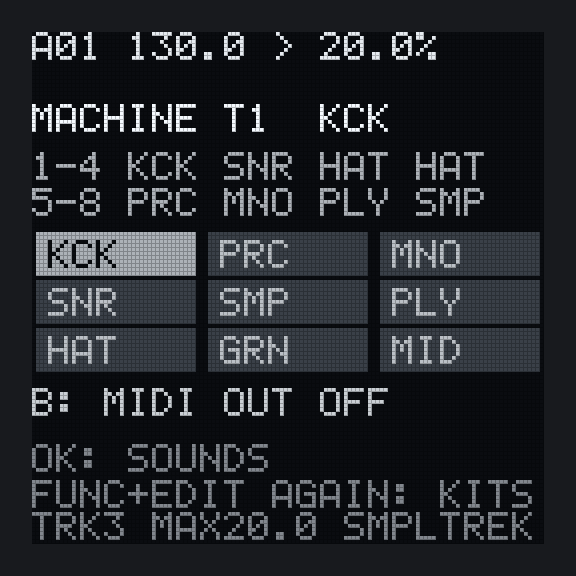
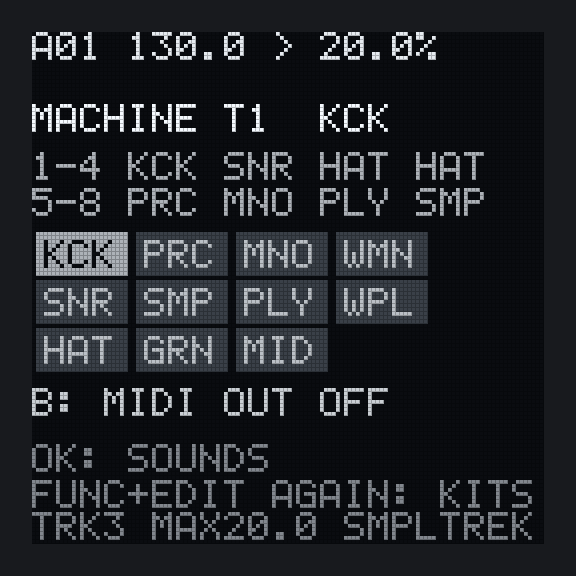
WAVE: scenario, docs, sound levels, MACHINE screenshot
- tests/scenario_wave.sh: switches the bass and chord tracks to WMN
  and WPL on keys and checks the beat stays inside the load target.
- MANUAL, CHEATSHEET, SPEC, FEATURES, HANDOFF memory row, BUDGET
  (host cost of the WAVE voice against the VA voice, boot and memory,
  E14 to measure), UNIT_CHECKLIST walkthrough item 19, E14 and U13.
- Factory sounds rebalanced against the VA sounds from renders.
- docs/screens: the MACHINE list in five columns.

Claude-Session: https://claude.ai/code/session_01Tw2EaFp6oskykyRmVaZ2K5

Changed region(s): [[0.0625, 0.375, 0.9375, 0.6562]]

diff --git a/core/sounds.cpp b/core/sounds.cpp
@@ -159,26 +159,26 @@ constexpr SoundPreset kWaveMonoPresets[] = {
     // The envelope sweeps the classic table from its sine to its square: a wavetable "wow".
     {"SWEEP", {4, 0, 70, 40}, FLAT, {60, 40, 110, 120}, NO_ASR, {0, 0, 60, 0}},
     // A resonant sweep with no filter in it: the RESO SAW table's peak moves with the envelope.
-    {"RESO", {36, 10, 100, 0}, FLAT, {50, 10, 120, 110}, NO_ASR, {0, 0, 50, 0}},
+    {"RESO", {36, 10, 100, 0}, FLAT, {60, 10, 120, 127}, NO_ASR, {0, 0, 80, 0}},
     // A growl bass: the GROWL table half way, held, the envelope pulling it into the snarl.
     {"GROWL", {100, 40, 60, 50}, FLAT, {70, 50, 100, 110}, {0, 100, 20, 0}, {0, 0, 70, 0}},
     // A talking lead: FORMANT, two readers a little apart, a touch of glide.
     {"FORMNT", {28, 64, 80, 20}, FLAT, {60, 30, 90, 110}, {0, 100, 20, 40}, {0, 30, 40, 30}},
     // Early digital: the stepping DIGITAL spectra, short and bright. Bleeps and arps.
-    {"DIGI", {84, 30, 90, 30}, FLAT, {40, 40, 100, 110}, NO_ASR, {0, 0, 0, 0}},
+    {"DIGI", {84, 30, 110, 30}, FLAT, {56, 40, 100, 127}, NO_ASR, {0, 0, 0, 0}},
     // A vowel lead: VOWELS opening from "oo" as the envelope rises, glide on every note.
     {"VOWEL", {92, 20, 90, 20}, FLAT, {80, 20, 120, 100}, {0, 110, 30, 60}, {0, 40, 0, 40}},
     // A bent bass: PHASE DIST with WRP bending the cycle as well. CZ-style.
-    {"WARP", {60, 40, 70, 50}, FLAT, {50, 60, 90, 110}, NO_ASR, {60, 0, 50, 0}},
+    {"WARP", {60, 40, 70, 50}, FLAT, {60, 60, 90, 127}, NO_ASR, {60, 0, 80, 0}},
     // An FM bass: the FM RATIO table, the sub under it.
-    {"FMBASS", {68, 50, 60, 30}, FLAT, {50, 50, 40, 115}, NO_ASR, {0, 0, 80, 0}},
+    {"FMBASS", {68, 50, 70, 30}, FLAT, {60, 50, 40, 127}, NO_ASR, {0, 0, 100, 0}},
 };
 
 // --- WAVE POLY: TBL POS CUT RES / DEC ENV MOT LVL, ASR, OSC WRP DET SUB DRV (dsp/vapoly.cpp) --
 // Held presets keep LVL down, as on VA POLY. Their DET is each voice's two readers.
 constexpr SoundPreset kWavePolyPresets[] = {
     // A pad on HARMONICS: a slow swell, two readers beating, the envelope brightening it.
-    {"PAD", {44, 30, 80, 20}, FLAT, {96, 30, 90, 60}, {85, 89, 91, 40}, {0, 60, 0, 0}},
+    {"PAD", {44, 30, 80, 20}, FLAT, {96, 30, 90, 70}, {85, 89, 91, 40}, {0, 60, 0, 0}},
     // An electric piano: E-PIANO barking as it is struck and mellowing as it holds.
     {"EPIANO", {108, 20, 100, 10}, FLAT, {90, 20, 90, 70}, {0, 70, 60, 64}, {0, 20, 0, 0}},
     // A bell: FM TINE from its sine, the tine rising on the strike and ringing away.
@@ -186,11 +186,11 @@ constexpr SoundPreset kWavePolyPresets[] = {
     // Mallets: the MALLET table at marimba, struck brighter. Chords and patterns.
     {"MALLET", {124, 30, 110, 10}, FLAT, {80, 20, 100, 70}, NO_ASR, {0, 0, 0, 0}},
     // A pluck: PLUCK from its bright end to its dull one as the envelope falls.
-    {"PLUCK", {116, 127, 100, 20}, FLAT, {60, 20, 0, 80}, NO_ASR, {0, 0, 0, 0}},
+    {"PLUCK", {116, 127, 100, 20}, FLAT, {70, 20, 0, 100}, NO_ASR, {0, 0, 0, 0}},
     // A choir: VOWELS held, two readers, a slow swell.
-    {"CHOIR", {92, 50, 80, 10}, FLAT, {100, 20, 80, 55}, {90, 100, 96, 50}, {0, 50, 0, 0}},
+    {"CHOIR", {92, 50, 80, 10}, FLAT, {100, 20, 80, 64}, {90, 100, 96, 50}, {0, 50, 0, 0}},
     // A PWM pad: the PWM table's widths, two readers, held.
-    {"PWMPAD", {12, 40, 80, 20}, FLAT, {96, 30, 100, 58}, {80, 95, 90, 50}, {0, 40, 0, 0}},
+    {"PWMPAD", {12, 40, 80, 20}, FLAT, {96, 30, 100, 66}, {80, 95, 90, 50}, {0, 40, 0, 0}},
 };
 
 #undef FLAT

diff --git a/docs/MANUAL.md b/docs/MANUAL.md
@@ -77,9 +77,9 @@ also walk the tracks in GRID, EDIT and KEYS.
 <sub>EDIT on the kick: the machine's SRC page and the insert chain's FLTR page. The bars above the knobs are the six pages; the screen keys turn them.</sub>
 
 
-A machine is one of eight sound engines, plus **MID**, which plays an outboard synth over MIDI
+A machine is one of ten sound engines, plus **MID**, which plays an outboard synth over MIDI
 instead (section 3). Any track can host any machine (MACHINE mode, `FUNC+EDIT`). The default kit
-uses the eight sound engines, one per track:
+uses eight of them, one per track (WAVE MONO and WAVE POLY are there to switch to):
 
 | Track | Machine | Default role |
 | :---: | --- | --- |
@@ -175,7 +175,7 @@ held. With it, POLY plays pads and long chords, and MONO plays long bass notes a
   dull.
 
 The line under the knobs says `SUS 0: ONE-SHOT` or `HOLDS: PAD OR LEN`. On any other machine the
-page shows `VA MONO/POLY ONLY`.
+page shows `VA/WMN/WPL ONLY`.
 
 A scene captured with SCENE stores the ASR page too, like every other knob. So if a note still
 fades with SUS up, look at the morph: a scene stored at SUS 0 pulls SUS down as VALUE moves
@@ -223,7 +223,7 @@ filter:
   squelch.
 
 The line under the knobs says `OS2: DET 1-63 SYN 64+`. On any other machine the page shows
-`VA MONO/POLY ONLY`. Like every page, the four lock, scene and macro.
+`VA/WMN/WPL ONLY`. Like every page, the four lock, scene and macro.
 
 **RES** on SRC runs over the whole knob: each turn adds about the same amount of peak, and from
 about 120 the filter whistles by itself at a steady level (self-oscillation; tune it with CUT).
@@ -623,6 +623,46 @@ Every note is a sustaining voice and costs CPU while it rings. All VA POLY track
 a budget of **12 voices**; past it, the quietest note is faded out quickly to make room. A longer
 DEC, a long LEN with SUS up, or a long REL all mean more notes overlap.
 
+### WMN and WPL: WAVE MONO and WAVE POLY
+
+The VA voice with a **wavetable** where its two oscillators were: 16 tables of 16 frames each,
+built into STRATA (no files needed), from PolyWerk's recipes. POS moves smoothly through a
+table's frames; MOT lets the filter envelope move it, so a note's timbre changes as it plays.
+Everything else is the VA's: the sub, the 24 dB filter with its envelope, the ASR page, accent,
+slide and glide on WMN, chords and the shared 12-voice budget on WPL.
+
+| Page | A | B | C | D |
+| --- | --- | --- | --- | --- |
+| SRC | **TBL** the table, eight counts each (shown by name) | **POS** position, frame 0-15 | **CUT** cutoff, LP24 | **RES** resonance |
+| AMP | **DEC** as MNO | **ENV** filter envelope amount | **MOT** envelope to position: 64 off, up to +15 or -15 frames | **LVL** |
+| ASR | **ATK** | **SUS** | **REL** | **FSU** as MNO |
+| OSC | **WRP** bends the cycle (0 = none) | **DET** a second, detuned copy: OFF, up to 60 cents | **SUB** sub level | WMN: **GLD** glide; WPL: **DRV** drive |
+
+The tables, from TBL 0 up:
+
+| TBL | Table | From frame 0 to 15 |
+| --- | --- | --- |
+| CLS | CLASSIC | sine, triangle, saw, square |
+| PWM | PWM | a square narrowing to a thin pulse |
+| SYN | SYNC | a hard-synced saw, the sync ratio rising |
+| FMT | FORMANT | a vocal formant sweeping up |
+| RSW | RESO SAW | a saw with a resonant peak sweeping up: a filter sweep with no filter |
+| HRM | HARMONICS | organ-like, more harmonics drawn in |
+| FLD | FOLD | a sine wavefolded harder and harder |
+| PHD | PHASE DIST | CZ-style phase distortion, soft to sharp |
+| FM1 | FM RATIO | two-operator FM, the index rising |
+| TIN | FM TINE | an electric piano's tine: a sine gaining its metallic partials |
+| DGT | DIGITAL | eight stepped digital spectra |
+| VOW | VOWELS | "oo" to "ah" to "ee" |
+| GRL | GROWL | a bass growl, darker to snarling |
+| EPN | E-PIANO | mellow to barking |
+| PLK | PLUCK | a plucked string, bright to dull (and quieter as it dulls) |
+| MLT | MALLET | soft mallet, marimba, vibraphone, xylophone, glockenspiel, kalimba |
+
+MOT above 64 moves the position up as the filter envelope rises and back as it falls; below 64 it
+moves it down. With PLK at POS 127 and MOT 0, each note starts bright and dulls like a string.
+The SOUNDS list (OK on MACHINE) has 8 WMN and 7 WPL starting points.
+
 ### MID: MIDI
 
 MID makes no sound of its own. It is for a track whose sound is an outboard synth, a drum
@@ -691,8 +731,8 @@ OUT channel: OFF, or 1-16. `FUNC+EDIT` again opens the kit library (section 6).
 
 <p><img src="screens/sounds.png" width="256" alt="SOUNDS on track 1, the kick"></p>
 
-Every drum machine and both VAs come with a short list of ready-made sounds. On a KCK, SNR, HAT,
-PRC, MNO or PLY track, press **OK** in EDIT or MACHINE: **SOUNDS** lists them. UP/DOWN or A move
+Every drum machine, both VAs and both WAVE machines come with a short list of ready-made sounds.
+On a KCK, SNR, HAT, PRC, MNO, PLY, WMN or WPL track, press **OK** in EDIT or MACHINE: **SOUNDS** lists them. UP/DOWN or A move
 the cursor, **OK loads** the one under it into this track, with the beat playing, and the list
 stays open so the next OK tries the next one. `NOW` marks the sound the track has. The first row,
 **AS WAS**, is the track as it sounded when you opened the list: OK on it puts that back, so

diff --git a/docs/UNIT_CHECKLIST.md b/docs/UNIT_CHECKLIST.md
@@ -1,7 +1,7 @@
 # Unit checklist
 
-The first part is **today's walkthrough** (2026-11-23): about 30 minutes, numbered 1-18, over
-everything merged since v0.1.0 (18 is the VA sound rework). Report back by number, for example `3 fail: reads 055`. After it
+The first part is **today's walkthrough** (2026-11-23): about 30 minutes, numbered 1-19, over
+everything merged since v0.1.0 (18 is the VA sound rework, 19 the WAVE machines). Report back by number, for example `3 fail: reads 055`. After it
 come the controls tour from 2026-11-22 (skip what the v0.1.0 card already showed), last night's
 long walkthrough, and "Reference", the full per-milestone list with the background for each check.
 
@@ -178,6 +178,19 @@ with at least one WAV in `SmplTrek/Pool/Audio` (copy one there on a PC if it is 
 - STOP, PLAY (MAX restarts), 30 s with OS2 at `S+12` and DRV half on track 6: **MAX `____ %`**
   (against item 1's). Then FUNC+HOME, RELOAD PROJECT (OK twice) puts the beat back.
 
+**19. WAVE MONO and WAVE POLY: the wavetable machines (4 min).** Beat playing, A01.
+- Startup took about as long as before? (The 16 wavetables are built at boot.) `____`
+- Lower pad 6, FUNC+EDIT (MACHINE): five columns, `WMN` and `WPL` in the fourth column; the
+  names fit their boxes. DOWN three times from MNO: `WMN`. The bass keeps playing, now a
+  wavetable.
+- OK (SOUNDS): SWEEP (the timbre opens on each note), GROWL, VOWEL (glides, "talks"), WARP. Each
+  usable without touching a knob, at a sensible level against the kick? `____`
+- EDIT, SRC: A reads a table name (`FM1`, `CLS`, ... `MLT`); turn A through all 16, B (POS) sweeps
+  each one smoothly, no clicks or zipper. AMP C (MOT) reads `OFF` at 64, `+15` and `-15` at the ends.
+- Track 7, MACHINE, DOWN three times: `WPL`. OK: PAD, EPIANO, BELL, CHOIR. AS WAS.
+- 30 s with WPL on track 7 playing PAD and WMN on track 6 playing GROWL: **MAX `____ %`**
+  (against item 1's). Then FUNC+HOME, RELOAD PROJECT puts the beat back.
+
 **Done.** Reply with the numbers: `all pass`, or for example `3 fail: reads 055`, `9: MAX 61.2`.
 
 ---
@@ -284,6 +297,10 @@ needed for tonight's unit session; do them if the PC is free.
       Then the worst case: the temporary `factory_kit` edit in `docs/BUDGET.md` ("The OSC page",
       E13), `scenario_factory.sh` both compilers, and revert the edit.
       Shipped: cl6x `________ %` GCC `________ %`. Worst: cl6x `________ %` GCC `________ %`
+- [ ] **E14.** WAVE: `tests/scenario_wave.sh` (tracks 6 and 7 switched to WMN and WPL on keys)
+      against `scenario_factory.sh` on the same commit, both compilers; and the cycles to
+      `strata ready` before and after the WAVE commit (`docs/BUDGET.md`, "WAVE MONO and WAVE POLY").
+      WAVE: cl6x `________ %` GCC `________ %`. Boot added: `________`
 - [ ] **E5.** Load `STRATA_1.WAV` (15 s, 96 kHz) through the emulator's card, cl6x vs GCC.
       `________ s` / `________ s`
 - [ ] Optional pre-listen: `make -C host render` writes the four factory patterns and A01's
@@ -794,7 +811,7 @@ so this is the first time it is heard. Play A01 GROOVE.
 
 - [ ] Track 7 (PLY), EDIT, screen key RIGHT six times: a seventh page box, `ASR`, with ATK SUS REL
       FSU on A-D reading `3MS 0% 60MS 0%`, and `SUS 0: ONE-SHOT` below. The seven boxes fit. On
-      track 1 the same page reads `---` and `VA MONO/POLY ONLY`.
+      track 1 the same page reads `---` and `VA/WMN/WPL ONLY`.
 - [ ] **Old sound kept.** With all four at 0 the chord stab sounds exactly as before (compare with
       A01 on the v0.1.0 card if in doubt).
 - [ ] **A pad.** SUS to about 70%, ATK to about `400MS`, REL to about `2.0S`, FSU up a little. Hold
@@ -925,7 +942,7 @@ SUB 102, DRV 0: their VAs lose the old always-on synced pulse, so they sound a l
 emulator only walks to the page (`tests/scenario_osc.sh`). Play A01 GROOVE.
 
 - [ ] Track 6 (MNO), EDIT, screen key RIGHT seven times: `OSC`, A-D reading `SAW OFF 090 024`, the
-      line `OS2: DET 1-63 SYN 64+`. On track 1 the page reads `---` and `VA MONO/POLY ONLY`.
+      line `OS2: DET 1-63 SYN 64+`. On track 1 the page reads `---` and `VA/WMN/WPL ONLY`.
 - [ ] **RES over its whole range.** SRC page, MOD in LP24 (0-63), D (RES) from 0 to 127 in steps
       of about 16: each step adds a bit more peak, none does nothing. From about 120 the filter
       whistles by itself at a steady level, no crackle, no growing. Same in LP12 (MOD 64-95).
@@ -1146,6 +1163,8 @@ Enaga's menu and start STRATA6.
 | U11 A01 MAX with BUILD at 127 and a playing loop; and with BASS KILL (13o) | |
 | E13 OSC page, `scenario_osc.sh` vs `scenario_factory.sh` before it; worst-case edit, cl6x / GCC (PC) | |
 | U12 MAX with a MIN11 chord on OS2 sync, DRV and SUB up, over A01 (13p) | |
+| E14 WAVE, `scenario_wave.sh` vs `scenario_factory.sh`; boot cycles before/after, cl6x / GCC (PC) | |
+| U13 MAX with WMN GROWL and WPL PAD, over A01 (walkthrough 19) | |
 | MAX straight after a kit recall (15) | |
 | STRATA6 MAX, 60 s (16) | |
 | U2 STRATA6 + tracks 5 and 6 as MIN11 POLY, capped at 12 voices (16) | |

diff --git a/docs/SPEC.md b/docs/SPEC.md
@@ -97,6 +97,8 @@ Eight tracks, each one machine plus a fixed insert chain, feed a mixer with two 
 | GRAIN | 1 (up to 8 grains) | Granular playback, tempo-locked stretch: position, size, density, spray, pitch |
 | VA MONO | 1 | 2 oscillators with sync, sub, noise, multimode filter, 2 envelopes, accent, slide, glide. **[rev]** OSC 2 detunes or syncs (OSC page); drive |
 | VA POLY | 6 | Same voice as VA MONO; chord mode, spread, unison 2 |
+| WAVE MONO **[rev]** | 1 | The VA MONO voice with a wavetable oscillator in place of the two oscillators: 16 built-in tables of 16 frames (from PolyWerk's recipes), position, envelope to position, phase warp, a detuned second reader; LP24 filter, sub, envelopes, accent, slide, glide as VA MONO. Machine id 9, `WMN`. dsp/wavetable.hpp |
+| WAVE POLY **[rev]** | 6 | The same, polyphonic like VA POLY, with chords; shares VA POLY's 12-voice budget. Machine id 10, `WPL` |
 | MID **[rev]** | 0 | No audio. The track's notes go to MIDI OUT, and SRC and AMP's eight slots are sent as CCs (74, 71, 73, 72; 70, 75, 76, 77) when they move. See "MIDI in and out" |
 
 **Per-track insert chain (fixed order)**
@@ -120,6 +122,7 @@ Machine, then drive (asymmetric soft clip), multimode filter (LP, HP, BP, 12 or 
 - **[rev]** Each track has an **arpeggiator**, a sixth EDIT page, ARP, after LFO: four more bytes per track (20-23), stored, locked and scened like the rest. A = MOD (OFF UP DN U/D ORD RND), B = RAT (1/4 1/8 1/8T 1/16 1/16T 1/32 1/32T), C = OCT (1-4 octaves), D = GAT (each hit's length, 50-99% of the spacing). With MOD on, a sequenced step's note -- a POLY step's whole chord -- plays as a run of single notes at RAT for the step's length, and the track's next step takes over. In KEYS, the held keys are arpeggiated while any is down, on the clock's grid with the transport running and free at the tempo when stopped; a pad hit plays once. RND plays the same notes every pass. All-zero bytes are OFF, so older kits play as they did. core/arp.hpp has the note logic; the engine schedules the hits on the clock's ticks, at control rate.
 - **[rev]** VA MONO and VA POLY have a note envelope page, **ASR**, a seventh EDIT page after ARP: four more bytes per track (24-27), stored, locked, scened and macro'd like the rest. A = ATK (2.5 ms-5 s), B = SUS (0-100% of the peak), C = REL (60 ms-8 s), D = FSU (filter envelope sustain). SUS 0 is a one-shot whose length is DEC, as before; SUS up holds a note while a KEYS pad, STEP key or MIDI note is held, or for the step's LEN on the sequencer. VA POLY has always ended a note at LEN; VA MONO does only once SUS is up, so existing bass lines keep their decays. All-zero bytes are exactly the old envelope (bit-identical), so older kits sound as they did. Other machines show `---` there. REC records how long a held note was held into its step's LEN (core/record.hpp, `held_length_index`), on the machines that hold a note. dsp/va.cpp has the curves.
 - **[rev]** VA MONO and VA POLY have an oscillator page, **OSC**, an eighth EDIT page after ASR: four more bytes per track (28-31), stored, locked, scened and macro'd like the rest. A = WAV (0-31 saw, 32 a square narrowing to an 8% pulse at 127), B = OS2 (0 off; 1-63 a second saw detuned up to 0.6 semitones, split around the note; 64-127 a pulse hard-synced to OSC 1, +0 to +24 semitones), C = SUB (triangle sub level, 0 skips it), D = DRV (soft clip before the filter plus more post-filter drive, level-trimmed). This is the spec's "2 oscillators with sync" made a choice instead of a fixed +19-semitone synced pulse. RES runs on an exponential curve to self-oscillation near 127, bounded by a control-rate limiter. Older kits load `SAW OFF 102 000`, without the old synced pulse: they change sound a little, accepted for the wider range (2026-11-23). Other machines show `---` there. dsp/va.cpp has the curves.
+- **[rev]** WAVE MONO and WAVE POLY (2026-11-23, Roland: "lets build it") read the same 32 bytes with their own meanings on the machine's slots: SRC = TBL (table, eight counts each), POS (frame 0-15), CUT, RES (the filter fixed at LP24); AMP = DEC, ENV, MOT (filter envelope to position, 64 = none, ±15 frames), LVL; ASR as the VAs; OSC = WRP (phase bend), DET (0 off, a second reader up to 60 cents), SUB, and GLD on WAVE MONO or DRV on WAVE POLY. The 16 tables (2.5 MiB of int16 frames in 10 mip levels, aliasing kept above 18 kHz) are computed at init, not loaded, so they need no file.
 - Voices come from fixed pools allocated in `init()`; nothing is allocated while playing.
 
 ## Sequencer

diff --git a/docs/CHEATSHEET.md b/docs/CHEATSHEET.md
@@ -238,8 +238,8 @@ CC 120/123 let go of held notes. Program change 1-128 on your MIDI CH queues pat
 | PATTERN | `>LEN 16 STEPS`, `SWG 54%`, `3 PAT`, `>5 66%` | Master length; swing; a track following SWG or with its own (`>` = field VALUE changes) |
 | EDIT LFO | `NOW CUT 87`, `LFO OFF: SET DEP+DST` | The destination's value right now; DEP or DST is zero |
 | EDIT ARP | `UP 1/16 X2 75%`, `ARP OFF: TURN MOD` | Mode, rate, octaves, gate; the arp is off |
-| EDIT ASR | `HOLDS: PAD OR LEN`, `SUS 0: ONE-SHOT`, `VA MONO/POLY ONLY` | Notes hold (SUS up); notes are one-shots; not a VA track |
-| EDIT OSC | `OS2: DET 1-63 SYN 64+`, `VA MONO/POLY ONLY` | What OS2's two halves do; not a VA track |
+| EDIT ASR | `HOLDS: PAD OR LEN`, `SUS 0: ONE-SHOT`, `VA/WMN/WPL ONLY` | Notes hold (SUS up); notes are one-shots; not a VA track |
+| EDIT OSC | `OS2: DET 1-63 SYN 64+`, `WRP BENDS  DET 2 OSCS`, `VA/WMN/WPL ONLY` | What OS2's two halves do; the WAVE pair's WRP and DET; not a VA or WAVE track |
 | PROJECT slots | `05>`, bright box | Queued slot; live slot (bright), has trigs (mid), empty (dark) |
 | PROJECT | `SMP OS.X- 12/32M` | Per track sample: O ready, S streamed from the card, . loading, X failed, - none; MiB used/budget |
 | Any | `STREAM LATE` | The card fell behind a streamed file; the gap played as silence |
@@ -256,12 +256,14 @@ CC 120/123 let go of held notes. Program change 1-128 on your MIDI CH queues pat
 ## Abbreviations
 
 **Machines:** KCK kick · SNR snare · HAT hat · PRC 2-op FM percussion · SMP sampler · GRN granular ·
-MNO VA mono · PLY VA poly.
+MNO VA mono · PLY VA poly · WMN wavetable mono · WPL wavetable poly.
 
 **EDIT pages:** SRC source · FLTR filter (insert chain) · AMP amplitude · FX effects (insert chain) · LFO the track's LFO · ARP its arpeggiator · ASR the VAs' held notes · OSC the VAs' oscillators and drive.
 **LFO page:** WAV shape SIN TRI RMP (rising) SAW (falling) SQR S+H · RAT rate, `0.06`-`32` Hz free on the lower half, `8B` (bars) to `1/32` synced on the upper (`.` dotted, `T` triplet) · DEP depth, 127 = about 64 either side · DST the parameter it moves, or OFF. Lockable, scene- and macro-able like any parameter.
 **ASR page (VA MONO, VA POLY):** ATK attack `3MS`-`5.0S` · SUS sustain `0%` (one-shot, DEC is the length, as before) to `100%` · REL release `60MS`-`8.0S` · FSU filter sustain (0 = the sweep closes, up = stays open). SUS up: a note holds while the pad or key is held, or for the step's LEN (MONO counts LEN only then). Pad: SUS 70%, ATK 400MS, REL 2.0S, chord step LEN 16 STP. REC records how long a held note was held as its step's LEN.
 **OSC page (VA MONO, VA POLY):** WAV `SAW` (0-31), `SQR` (32) to `P08` (127, a thin pulse) · OS2 `OFF` (0), `D0`-`D60` a detuned second saw in cents (1-63: chorus to Reese), `S+0`-`S+24` a pulse synced to OSC 1 (64-127: the sync sweep) · SUB the sub an octave down (0 = off) · DRV drive into the filter, thicker and dirtier, not louder. An older project loads `SAW OFF 102 000`. RES now self-oscillates near the top.
+
+**OSC page (WAVE MONO, WAVE POLY):** WRP phase bend, 0 none · DET `OFF` or `D1`-`D60`, a second detuned reader in cents · SUB · WMN: GLD glide; WPL: DRV drive. The ASR page is the VAs'.
 
 **ARP page:** MOD OFF UP DN U/D ORD RND · RAT `1/4` to `1/32T` · OCT `X1`-`X4` · GAT note length, `50%`-`99%` of the spacing. On, a step plays a run for its length (PLY: through its chord); in KEYS, held keys are arpeggiated. Lockable and scene-able.
 
@@ -275,6 +277,8 @@ MNO VA mono · PLY VA poly.
 | GRN | POS position, SIZ grain size, DEN density, SPR spray | PIT pitch, SHP grain shape, DEC, LVL |
 | MNO | TUN, MOD filter mode, CUT cutoff, RES resonance | DEC, ENV filter env amount, GLD glide, LVL (ASR page: ATK SUS REL FSU) |
 | PLY | TUN, MOD, CUT, RES | DEC, ENV, DET detune, LVL (ASR page: ATK SUS REL FSU) |
+| WMN | TBL table (CLS PWM SYN FMT RSW HRM FLD PHD FM1 TIN DGT VOW GRL EPN PLK MLT), POS position, CUT (LP24), RES | DEC, ENV, MOT envelope to position (`OFF` at 64, `+15`/`-15`), LVL (ASR and OSC pages) |
+| WPL | TBL, POS, CUT, RES | DEC, ENV, MOT, LVL (ASR and OSC pages; chords, shares the 12 POLY voices) |
 
 **Insert chain (every track):** FLTR = DRV drive, CUT cutoff, RES resonance, MOD filter mode
 (OFF LP12 LP24 BP12 BP24 HP12 HP24). FX = LOF lo-fi, PAN pan, SNA send A (delay), SNB send B (reverb).

diff --git a/docs/BUDGET.md b/docs/BUDGET.md
@@ -1193,6 +1193,7 @@ scene or knob really did move: those prepare as before.
 | E7 | Eight LFOs running | `tests/scenario_lfo.sh` as it is (every LFO off: should match `scenario_factory.sh`), then again after a temporary edit to `factory_kit` in core/factory.cpp setting each track's `params[17] = 40` (RAT, about 3 Hz free), `params[18] = 127` (DEP) and `params[19] = 38` (DST = DRV), with cl6x and with `ENAGA_TI_CGT=none`; revert the edit | the difference is eight LFOs' cost; the host figures say about 1.1-1.4 points GCC, and about the same with cl6x |
 | E12 | The ASR page | `tests/scenario_asr.sh`, then the held-chord `factory_kit` edit in "The ASR page" above, `scenario_factory.sh`, both compilers; revert | **done 2026-11-23:** off = A01 (26.15% / 49.32%); held +3.60 cl6x / +4.71 GCC (see "The ASR page") |
 | E13 | The OSC page and the VA rework | `tests/scenario_osc.sh` against `scenario_factory.sh` before it, then the worst-case `factory_kit` edit in "The OSC page" below, both compilers; revert | the factory beat should not rise; worst case at most ~0.1 point a voice over the old voice |
+| E14 | WAVE MONO and WAVE POLY | `tests/scenario_wave.sh` (tracks 6 and 7 switched to WMN and WPL on keys) against `scenario_factory.sh` on the same commit, both compilers; and the boot: the cycles to `strata ready` against the same run before the WAVE commit | see "WAVE MONO and WAVE POLY" below: about 1.0-1.4x a VA voice expected; the table build is a one-off at boot |
 | E5 | Load time of a 15 s 96 kHz stereo WAV (30 s of the file now loads too: `kSrcFrames` is 30 s of 96 kHz frames since 2026-11-22) | through the emulator's card, cl6x vs GCC | wall time to playable; screen should not stall |
 
 #### To measure on the unit (with the MAX readout from PR #17)
@@ -1602,6 +1603,47 @@ and revert.
 | `scenario_factory.sh`, before the OSC page | 26.15% | 49.32% |
 | `scenario_osc.sh` (A01 as shipped, new voice) | | |
 | `scenario_factory.sh`, tracks 6 and 7 at the worst case | | |
+
+### WAVE MONO and WAVE POLY (2026-11-23, host only)
+
+The wavetable voice is the VA voice with its oscillators swapped for one or two readers of two
+neighbouring int16 frames (dsp/waveloops.ti.c: two linear interpolations and a crossfade a sample,
+branch-free, ready for cl6x). The filter, the envelopes, the sub and the tail are the VA's.
+
+Host, x86 GCC -O2, a six-note held chord on one POLY machine, nanoseconds per voice per 64-frame
+block, best of two runs (noisy; the ratios are what to read):
+
+| Voice | ns / voice / block | vs VA saw |
+| --- | --- | --- |
+| VA, saw, OS2 off | 857 | 1.00 |
+| VA, saw, OS2 detune | 901 | 1.05 |
+| VA, saw, OS2 sync | 1,169 | 1.36 |
+| WAVE, one reader | 1,121 | 1.31 |
+| WAVE, DET (two readers) | 1,291 | 1.51 |
+| WAVE, DET and WRP | 1,591 | 1.86 |
+
+So a WAVE voice costs about what a synced VA voice does, and the worst knob setting (DET and WRP
+together) about 1.4x that. Scaled from VA POLY's 2.16 points a voice with cl6x (3.82 GCC-only),
+expect roughly **2.2-3.0 points a voice with cl6x and 4-5 GCC-only**, unmeasured. WAVE POLY shares
+VA POLY's budget of 12 voices and the CPU guard sheds its voices the same way, so the worst case is
+twelve voices at the upper figure, about 9 points above twelve VA voices. If the emulator says
+more, the lever is WRP's loop (`strata_wave_add_warp`, a float index and a compare per sample).
+
+**Boot:** the 16 tables are computed in `Engine::init` (a float FFT, 256 frames, 10 mip levels):
+25.8 ms on the host. The C6748 has no x86 FPU throughput; expect 0.5-1.5 s added to the boot,
+to be measured as E14.
+
+**Memory:** 2,626,560 bytes of tables plus 0.2 MiB of build scratch: init now asks for 111.77 MiB
+of the 120 MiB heap, 8.23 MiB spare against the 8 MiB rule (tests/test_memory.cpp itemises it).
+FM and STRING, which follow, allocate under 0.1 MiB.
+
+**E14, to measure on Roland's PC (emulator):**
+
+| Build | cl6x | GCC only |
+| --- | --- | --- |
+| `scenario_factory.sh`, same commit | | |
+| `scenario_wave.sh` (WMN bass, WPL chord) | | |
+| cycles to `strata ready`, before / after | | |
 
 ### Later milestones
 

diff --git a/docs/FEATURES.md b/docs/FEATURES.md
@@ -70,6 +70,7 @@ pages (SRC, FLTR, AMP, FX), plus LFO, ARP and (VAs) ASR pages.
 | VA POLY: up to 6 notes, 13 chord types with inversions, DET | v0.1.0 | ✔ default beat chord | At SUS 0 LEN only shortens a note; see the ASR row. No stereo spread or unison 2 (in SPEC) |
 | **Held notes on the VAs: ASR page** (ATK SUS REL FSU, seventh EDIT page); with SUS up a note holds while the key is held or for its step's LEN (up to 64 steps) | #90 | ○ (13k) | Held voices count against the 12-voice POLY budget for as long as they hold; MONO counts LEN only once SUS is up |
 | **VA sound rework: OSC page** (WAV OS2 SUB DRV, eighth EDIT page): saw or pulse width, a detuned or hard-synced OSC 2, sub level, drive into the filter; RES self-oscillates near the top, LP24 squelches like LP12 | #118 | ○ (13p, walkthrough 18) | Older projects lose the old fixed synced pulse (load `SAW OFF 102 000`). No key tracking or velocity to the filter; the filter decay is still 0.55 x DEC |
+| **WAVE MONO and WAVE POLY**: the VA voice with a wavetable (16 built-in tables of 16 frames: TBL POS, MOT envelope to position, WRP phase bend, DET second reader), 8 + 7 factory sounds | #119 | ○ (walkthrough item, 13q) | CPU per voice is a host estimate until the emulator and the unit measure it (BUDGET "WAVE"); the tables take 2.5 MiB at init, leaving about 8.2 MiB spare. No user tables from the card |
 | MID: plays an outboard synth over MIDI; SRC/AMP knobs send CC 74/71/73/72, 70/75/76/77 | v0.1.0 | ○ (8d) | No sound or CPU of its own; no scale fold |
 | Key and scale per pattern (15 scales), fold for VAs, GRAIN and unsliced SAMPLE; sharps everywhere | v0.1.0 | ○ (7) | |
 | **NOTE view**: TUN / PIT read as a note (where TUN puts C-4) and turn a semitone a click; push the knob for 0-127 | #88 | ○ ("Today's walkthrough") | Chromatic, not by scale (TUN applies after the fold). 128 bytes per range, so many notes are a few cents off (`+`/`-`). Not saved: on at every start |

diff --git a/docs/HANDOFF.md b/docs/HANDOFF.md
@@ -21,7 +21,7 @@ at the top of `docs/UNIT_CHECKLIST.md` is the first pass over it.
 | `tools/build.sh` | links. Last measured image: `APP.ENA` 484,160 bytes GCC-only (476,008 cl6x), bss 1,334,848; no BOOT / MCU / SPI sections. `tests/test_memory.cpp` reads these two figures from here |
 | `tools/scenarios.sh` | **11 scenarios**: m0, m1, m3–m7, `factory`, `kits`, `killeq` (the master kill EQ running; never run yet), `lfo` (the LFO and track swing pages draw; never run yet). Worst measured: **23.49% with cl6x, 39.60% GCC-only** (`docs/BUDGET.md`), before today's afternoon PRs. `factory` and `kits` have not been run with cl6x yet |
 | unit | boots, plays, LOAD about 0–26%. **No MAX reading yet**: the readout is PR #17, still open |
-| memory | init takes **109.1 MiB of a 120 MiB heap** since the sends' ambient modes (`tests/test_memory.cpp`), 10.9 MiB spare against an 8 MiB headroom rule: only 2.9 MiB left for anything else that allocates in init. Never checked on the unit |
+| memory | init takes **111.8 MiB of a 120 MiB heap** since the WAVE tables (2.5 MiB, `tests/test_memory.cpp`), 8.2 MiB spare against an 8 MiB headroom rule: only 0.2 MiB left for anything else that allocates in init. Never checked on the unit |
 | milestones | M0–M6 feature-complete, M7's app side done; every load and feel exit criterion waits for the unit (`docs/PLAN.md`) |
 | VA POLY | 2.16 points per voice with cl6x, 3.82 GCC-only (emulator). **A shared budget of 12 voices across all tracks** (`Engine::kPolyVoiceBudget`, PR #30), provisional until the unit's MAX |
 | Enaga | pinned at release **v0.2.0 (`3da7f89`)**, the unit's firmware. `tools/enaga_check.sh` passes |
